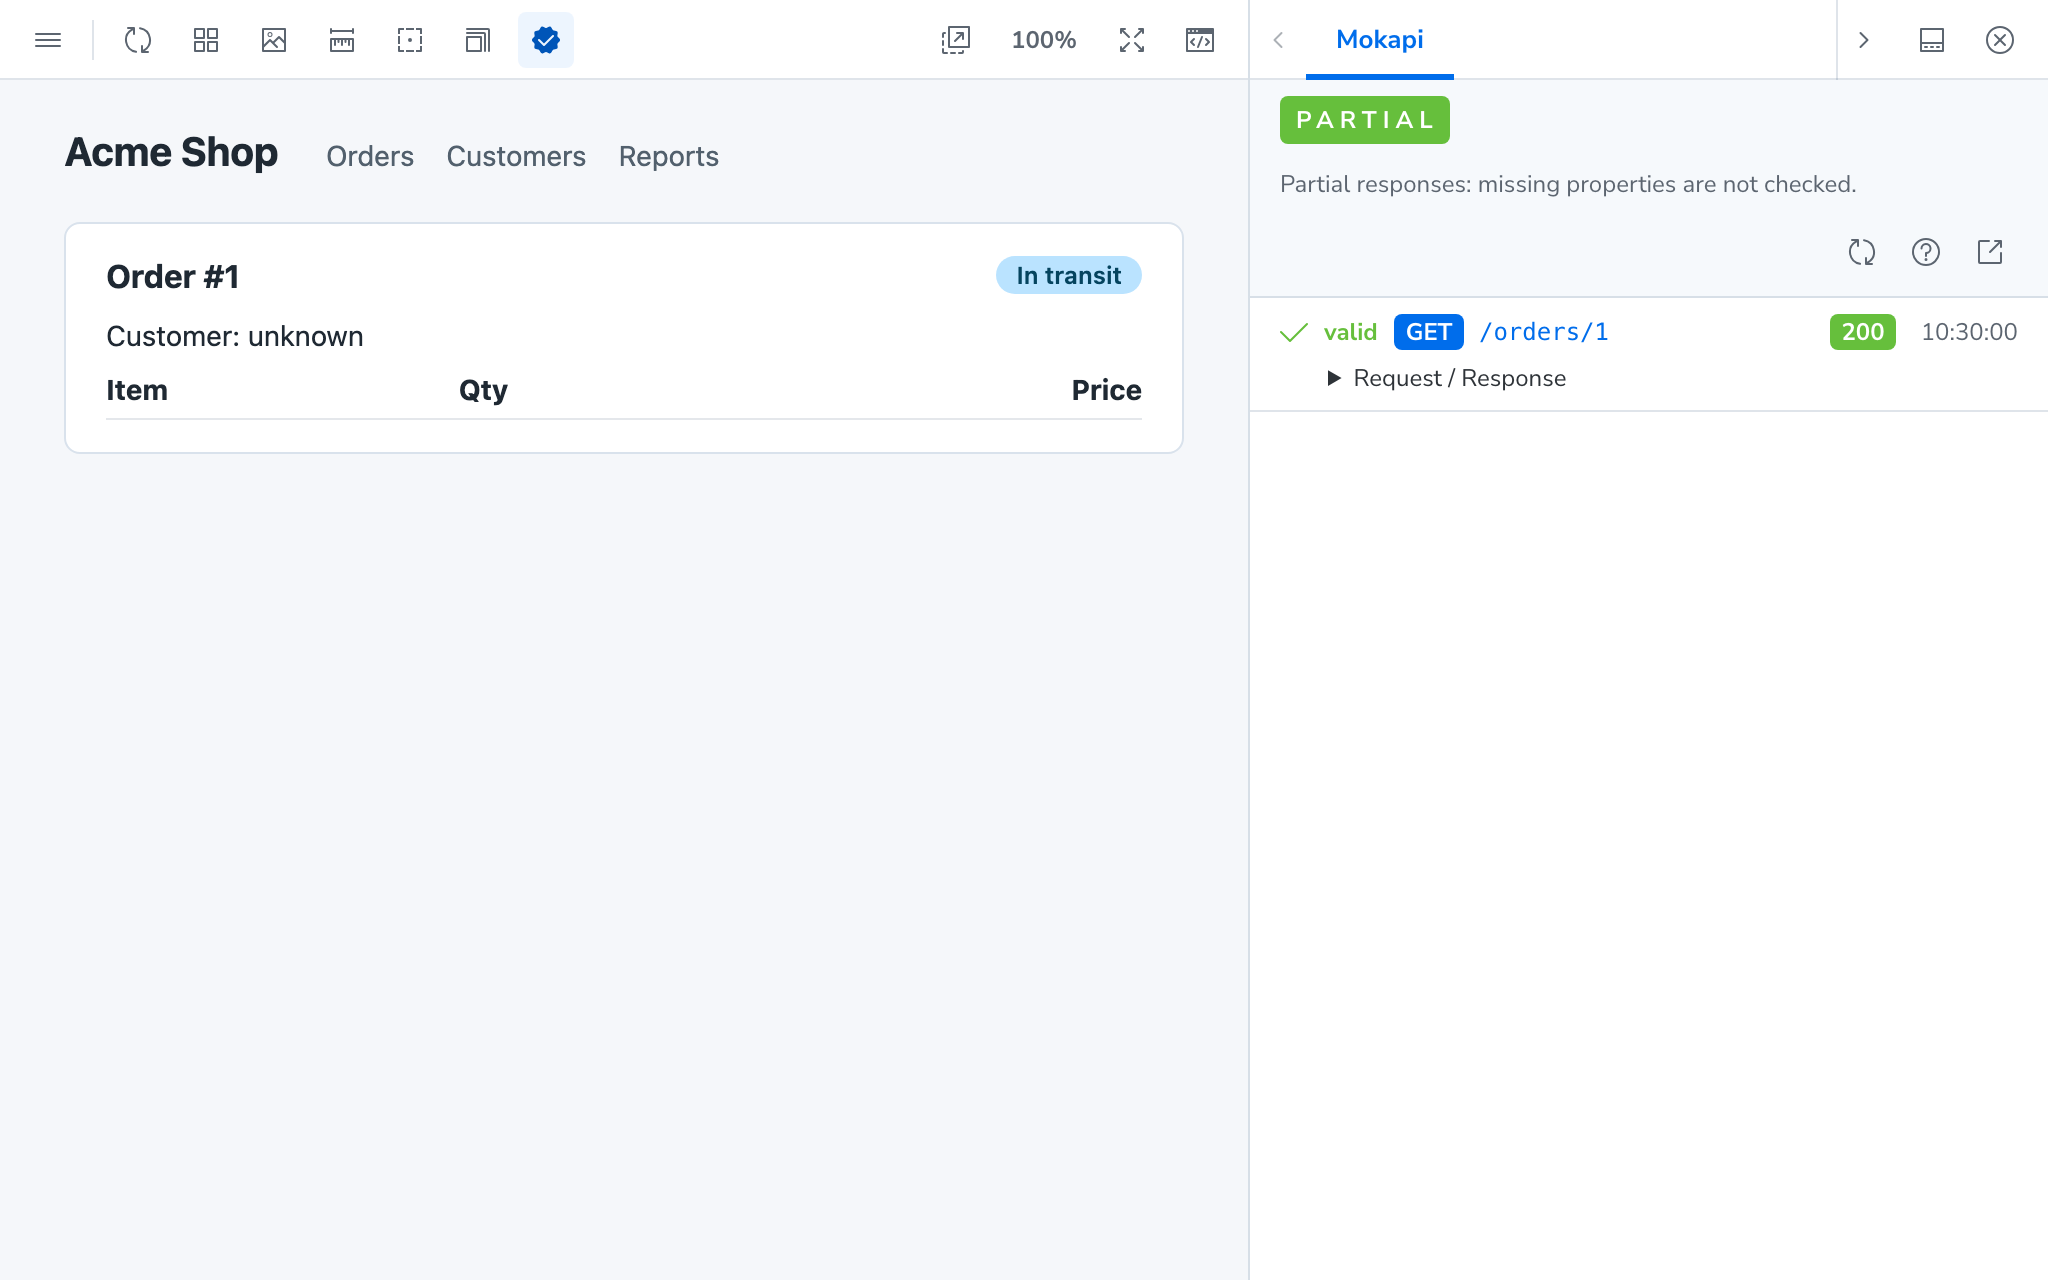
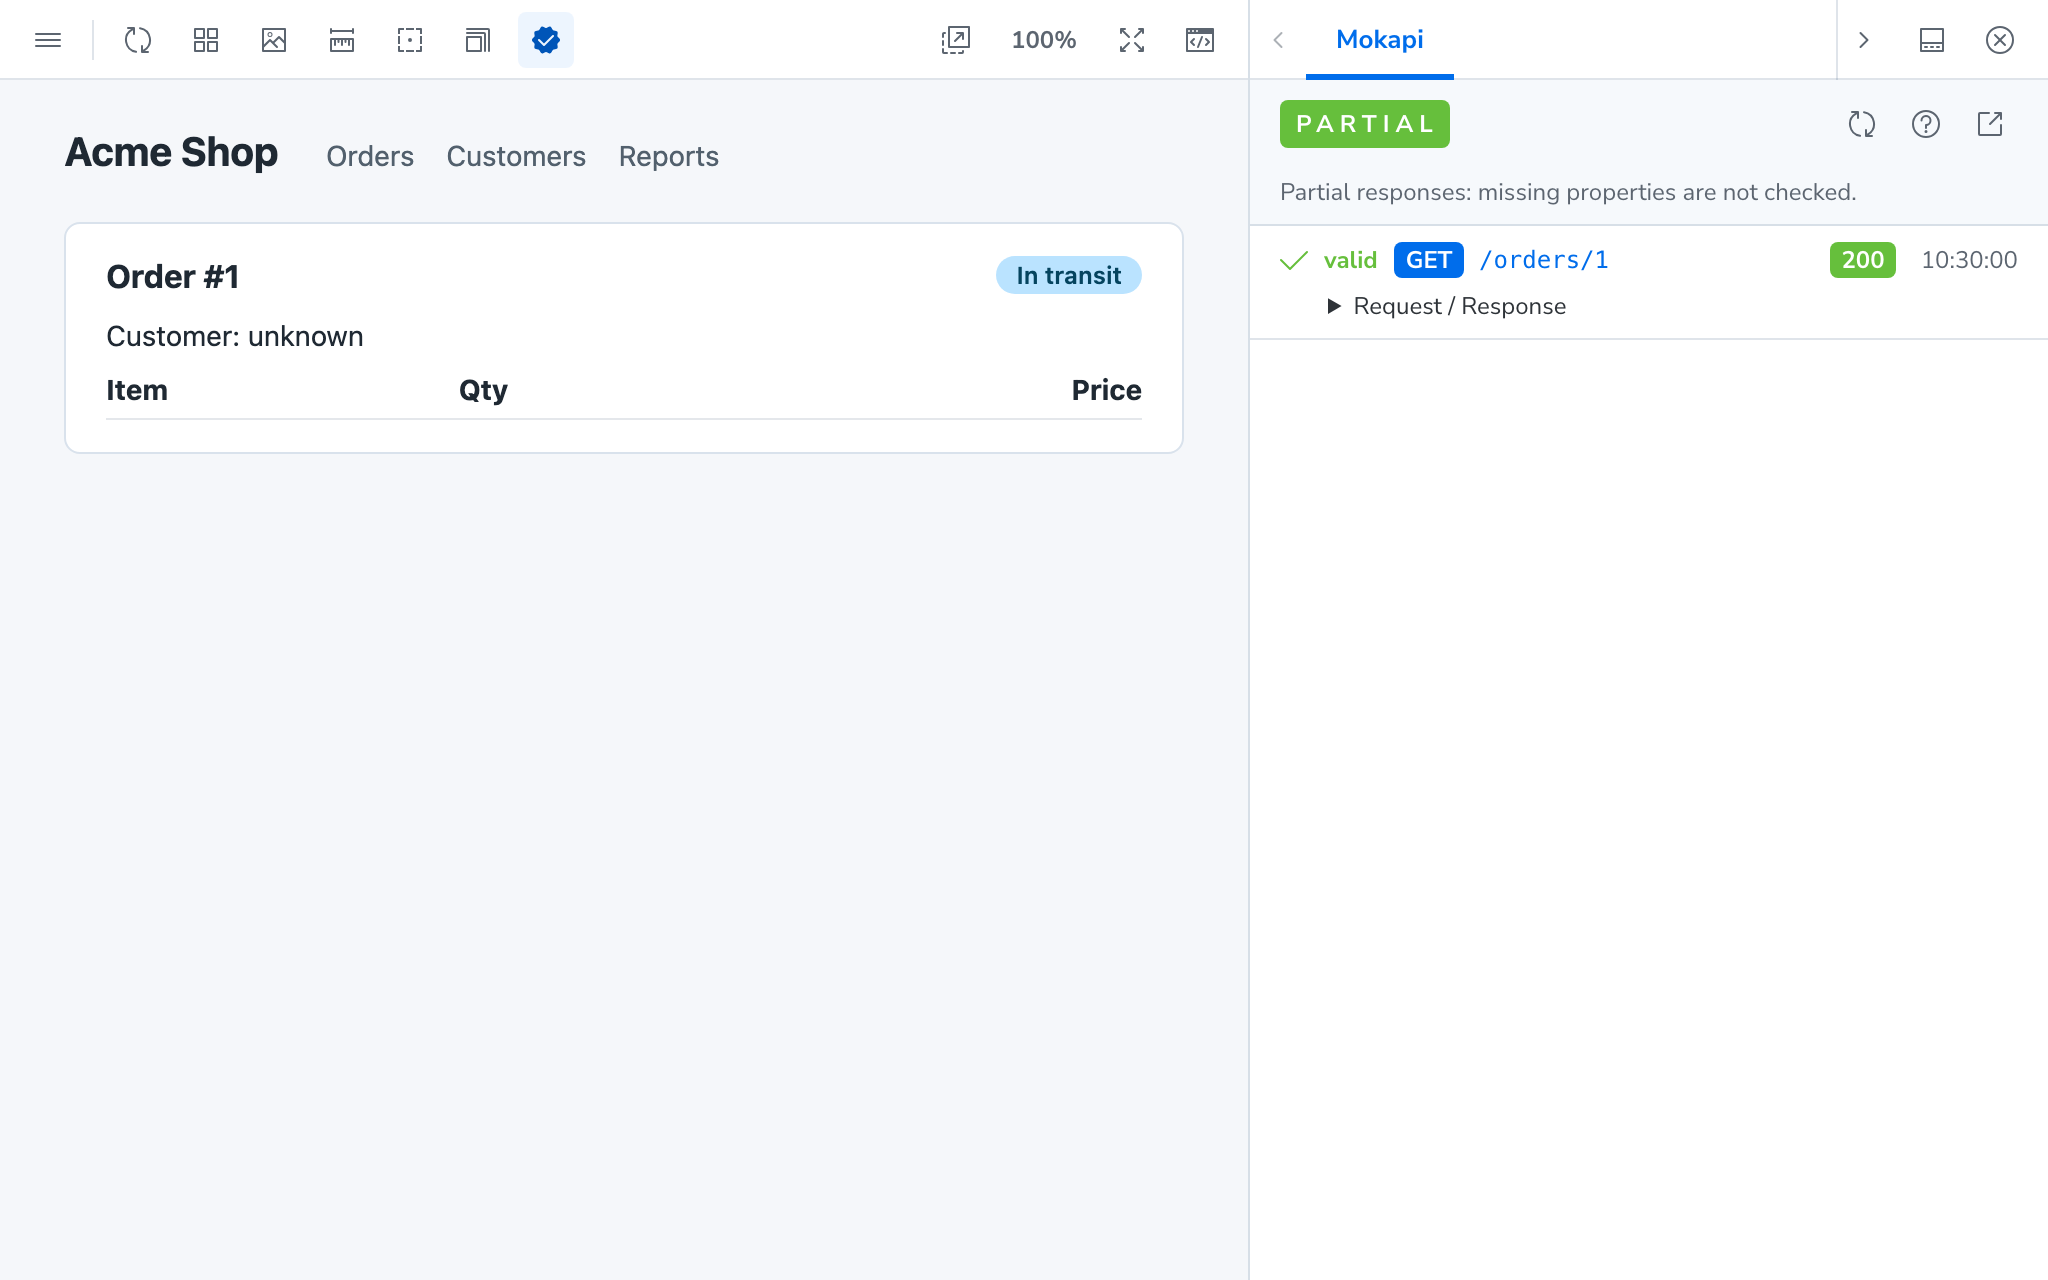
doc(storybook): show partial story with an invalid response (der neue Absatz in usage.md und partial-invalid.png) doc(storybook): retake partial screenshot, partial line below the toolbar row (partial.png und die Toolbar-Zeile in usage.md)

Changed region(s): [[0.625, 0.1875, 0.7812, 0.3125], [0.625, 0.0625, 0.9062, 0.1562], [0.875, 0.1875, 1.0, 0.2812]]

diff --git a/docs/integrations/storybook/usage.md b/docs/integrations/storybook/usage.md
@@ -150,6 +150,10 @@ The panel shows the `PARTIAL` badge and the partial line in its toolbar.
 
 <img src="/docs/integrations/storybook/partial.png" width="700" alt="Partial story: the mock contains only id and status, the Mokapi panel shows the PARTIAL badge and the line Partial responses: missing properties are not checked" />
 
+The properties the body does contain are still checked. The `PartialInvalid` story is the `Partial` example above with one change: it returns `status: 'shipped'`, which the enum doesn't list. The panel shows the `WARN` badge together with the partial line.
+
+<img src="/docs/integrations/storybook/partial-invalid.png" width="700" alt="PartialInvalid story: the Mokapi panel shows the WARN badge and the line Partial responses: missing properties are not checked, and the response is invalid with the error value 'shipped' does not match one in the enumeration [pending, in_transit, delivered]" />
+
 ## Panel and badge
 
 The **Mokapi** panel shows the responses of the selected story since it was
@@ -176,7 +180,8 @@ has:
   is `No response was checked against the contract.`
 - The line `Partial responses: missing properties are not checked.`, only while
   the story validates with [partial responses](#partial-responses). It is shown
-  in every state, also next to `WARN` and `FAIL`.
+  in every state, also with `WARN` and `FAIL`, in its own row below the badge
+  and the icons.
 - On the right: three icon buttons. **Rerun** runs the validation again, the
   help icon opens the
   [addon documentation](https://mokapi.io/docs/integrations/storybook), and
